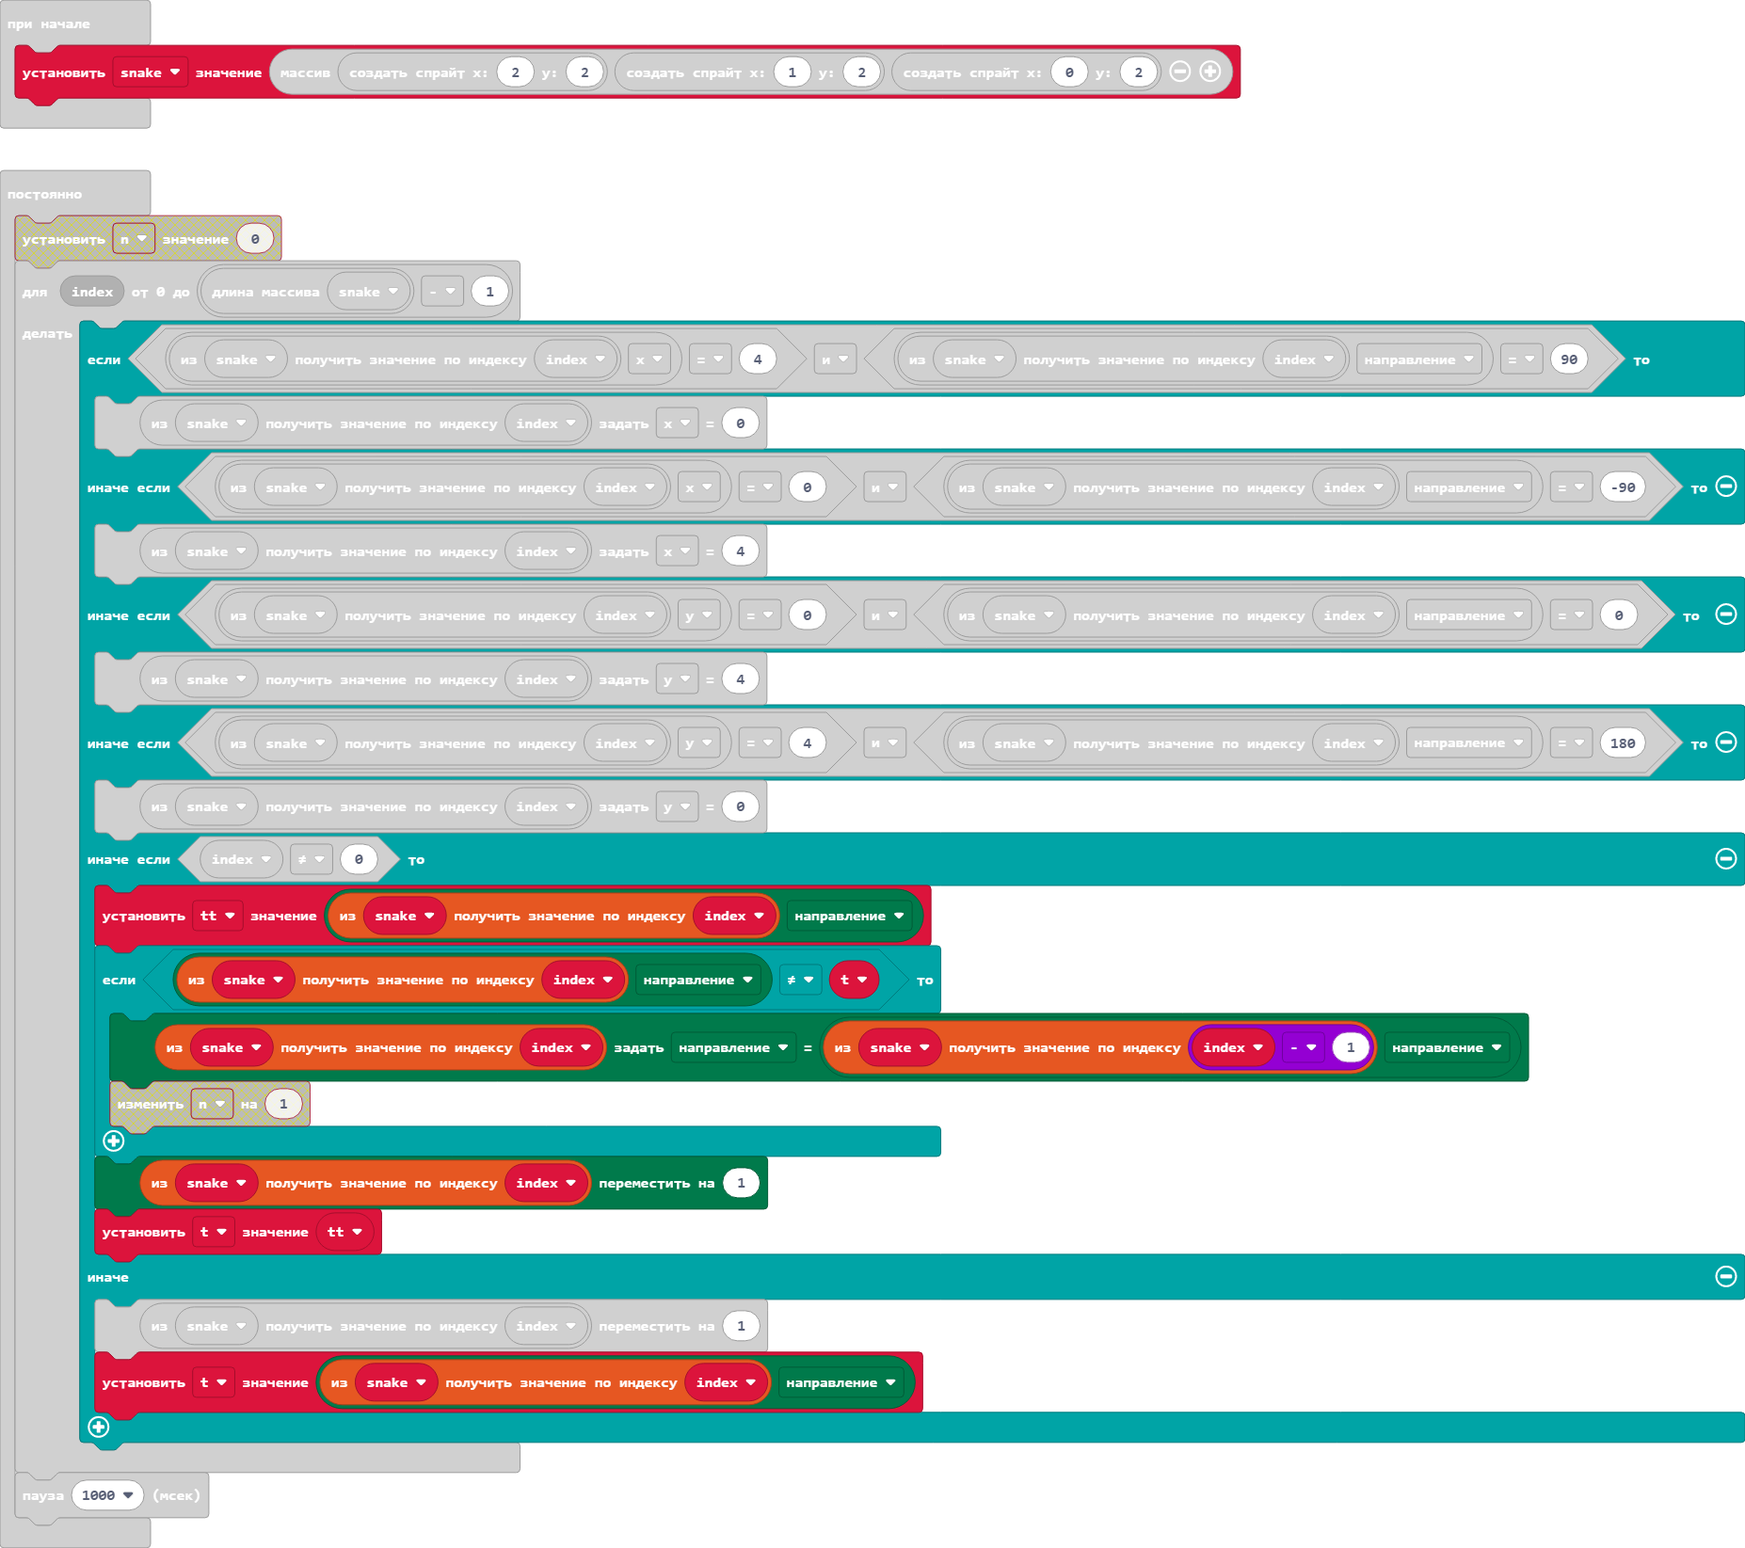
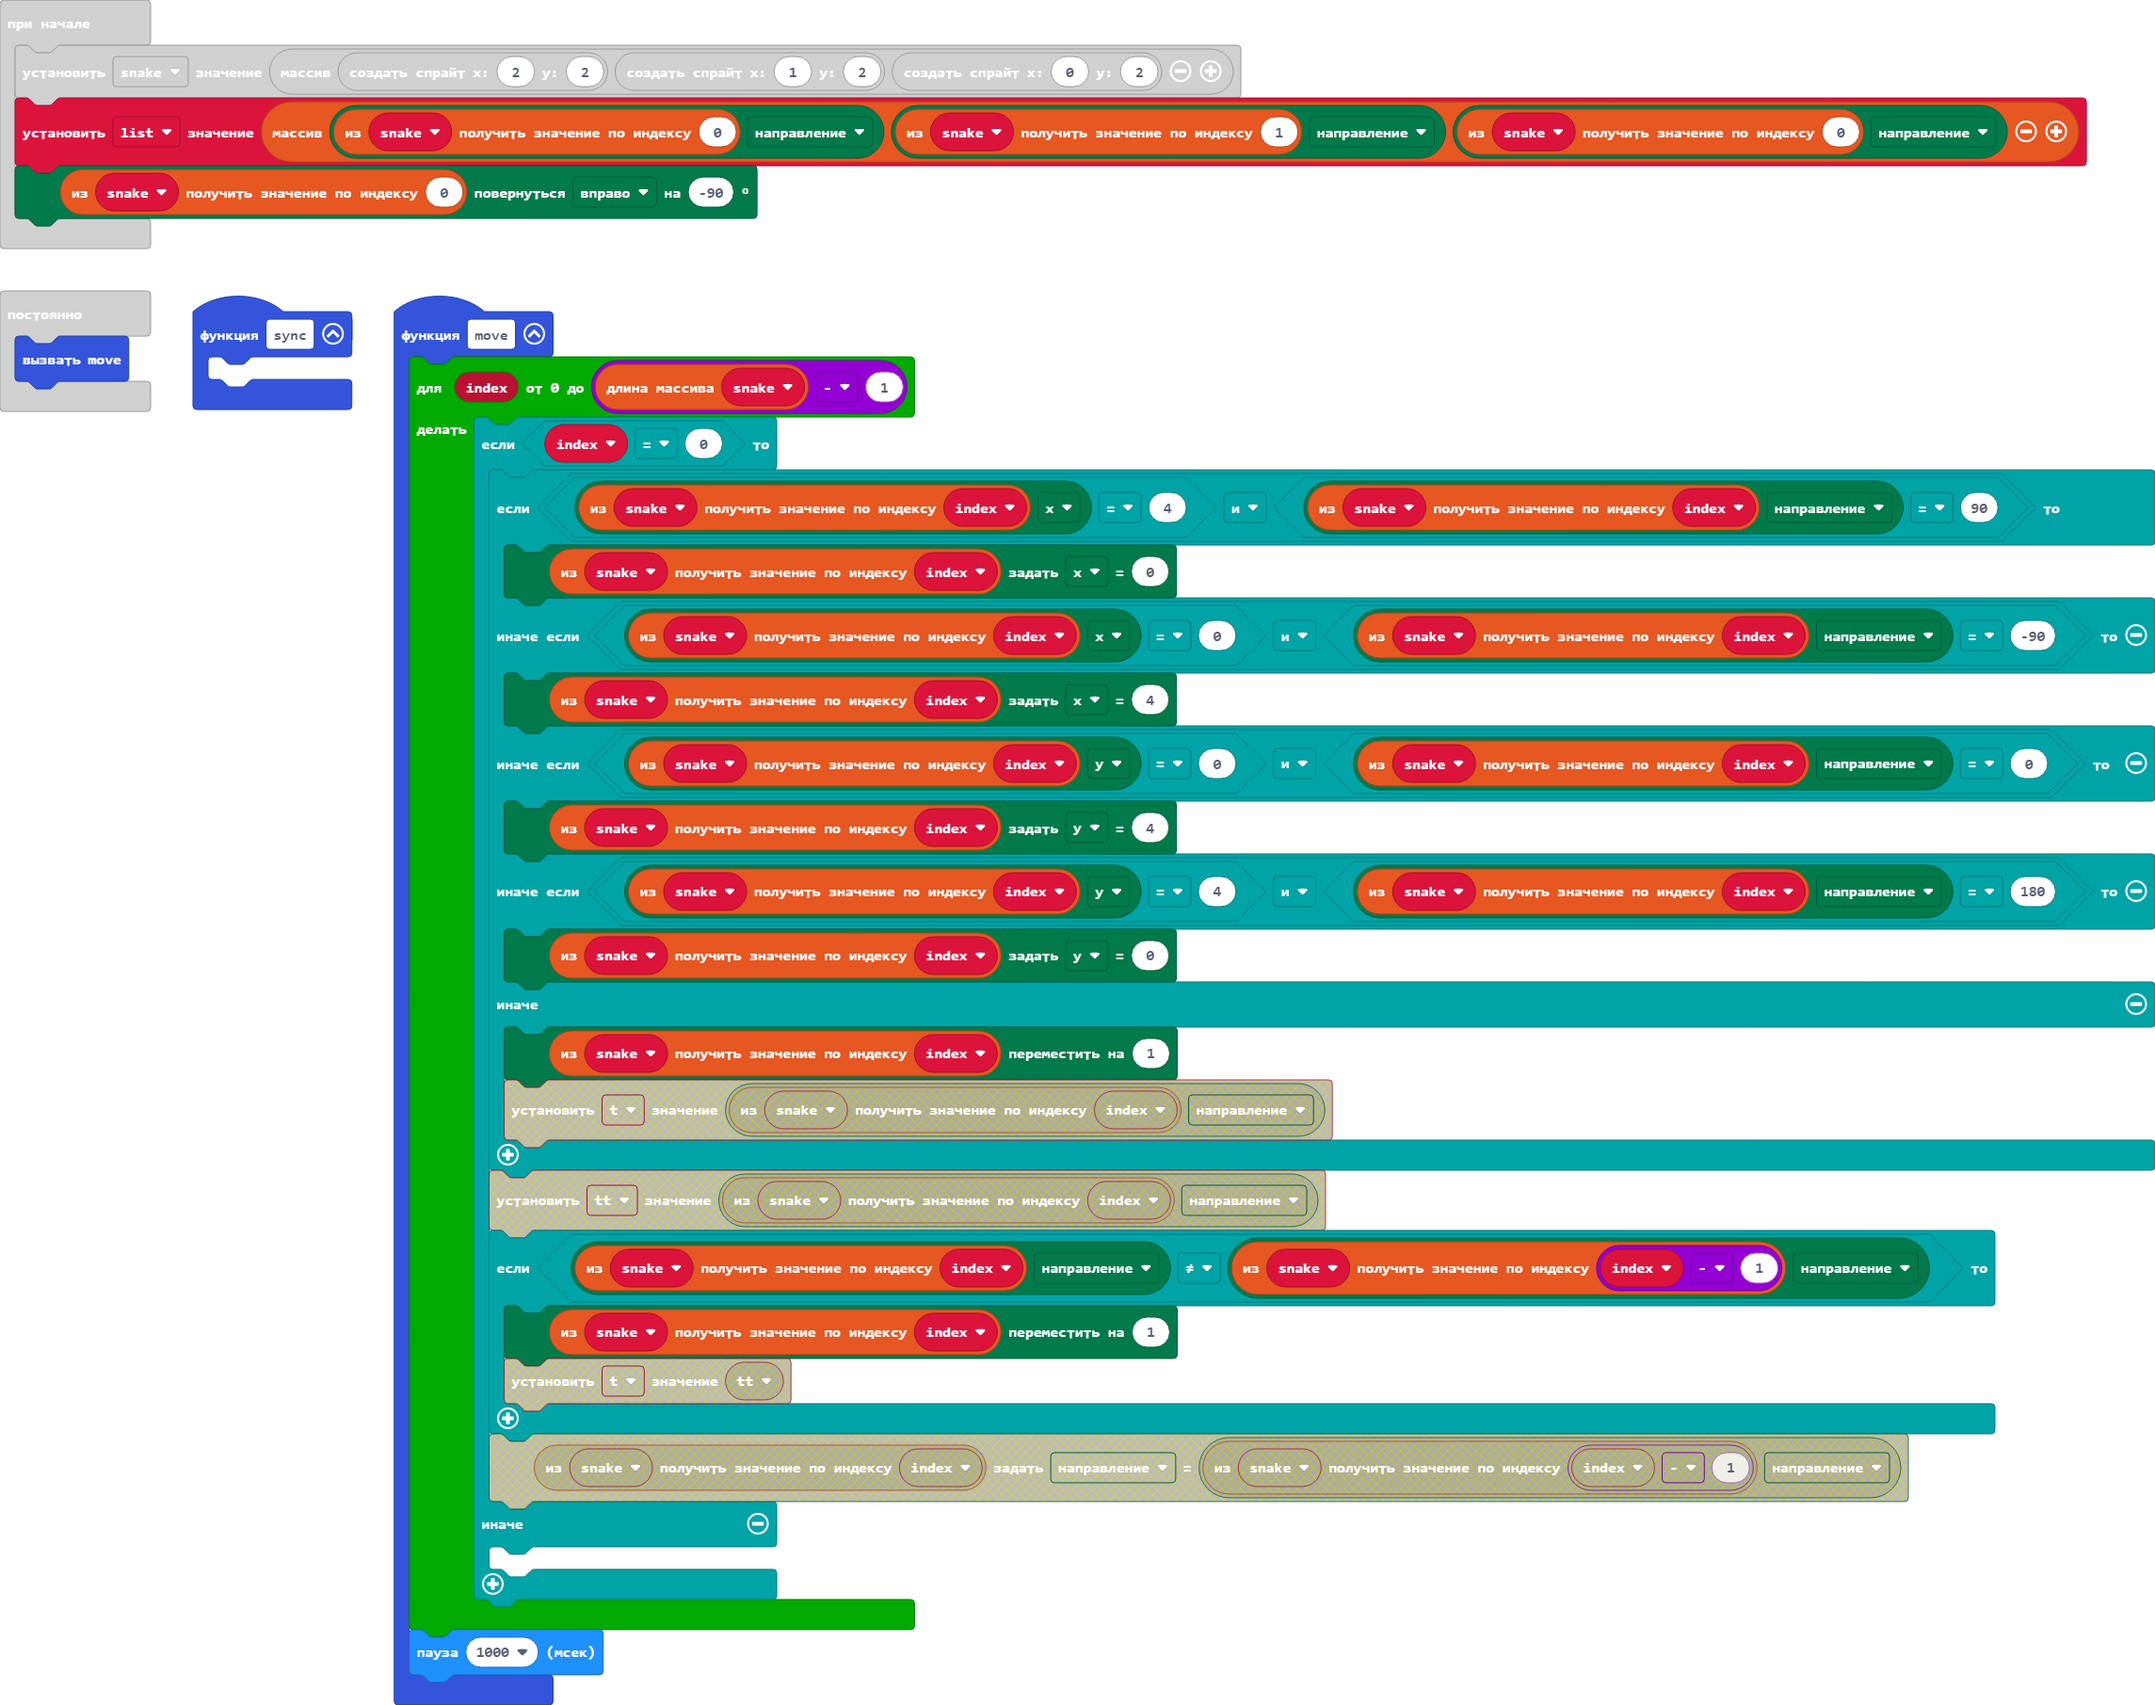
movi

diff --git a/main.ts b/main.ts
@@ -9,6 +9,9 @@ buttonClicks.onButtonDown(buttonClicks.AorB.B, function () {
         snake[0].turn(Direction.Left, 90)
     }
 })
+function sync () {
+	
+}
 buttonClicks.onButtonDown(buttonClicks.AorB.A, function () {
     if (snake[0].get(LedSpriteProperty.Direction) == 90) {
         snake[0].turn(Direction.Right, 90)
@@ -20,31 +23,32 @@ buttonClicks.onButtonDown(buttonClicks.AorB.A, function () {
         snake[0].turn(Direction.Left, 90)
     }
 })
-let t = 0
-let tt = 0
-let snake: game.LedSprite[] = []
-snake = [game.createSprite(2, 2), game.createSprite(1, 2), game.createSprite(0, 2)]
-basic.forever(function () {
+function move () {
     for (let index = 0; index <= snake.length - 1; index++) {
-        if (snake[index].get(LedSpriteProperty.X) == 4 && snake[index].get(LedSpriteProperty.Direction) == 90) {
-            snake[index].set(LedSpriteProperty.X, 0)
-        } else if (snake[index].get(LedSpriteProperty.X) == 0 && snake[index].get(LedSpriteProperty.Direction) == -90) {
-            snake[index].set(LedSpriteProperty.X, 4)
-        } else if (snake[index].get(LedSpriteProperty.Y) == 0 && snake[index].get(LedSpriteProperty.Direction) == 0) {
-            snake[index].set(LedSpriteProperty.Y, 4)
-        } else if (snake[index].get(LedSpriteProperty.Y) == 4 && snake[index].get(LedSpriteProperty.Direction) == 180) {
-            snake[index].set(LedSpriteProperty.Y, 0)
-        } else if (index != 0) {
-            tt = snake[index].get(LedSpriteProperty.Direction)
-            if (snake[index].get(LedSpriteProperty.Direction) != t) {
-                snake[index].set(LedSpriteProperty.Direction, snake[index - 1].get(LedSpriteProperty.Direction))
+        if (index == 0) {
+            if (snake[index].get(LedSpriteProperty.X) == 4 && snake[index].get(LedSpriteProperty.Direction) == 90) {
+                snake[index].set(LedSpriteProperty.X, 0)
+            } else if (snake[index].get(LedSpriteProperty.X) == 0 && snake[index].get(LedSpriteProperty.Direction) == -90) {
+                snake[index].set(LedSpriteProperty.X, 4)
+            } else if (snake[index].get(LedSpriteProperty.Y) == 0 && snake[index].get(LedSpriteProperty.Direction) == 0) {
+                snake[index].set(LedSpriteProperty.Y, 4)
+            } else if (snake[index].get(LedSpriteProperty.Y) == 4 && snake[index].get(LedSpriteProperty.Direction) == 180) {
+                snake[index].set(LedSpriteProperty.Y, 0)
+            } else {
+                snake[index].move(1)
             }
-            snake[index].move(1)
-            t = tt
         } else {
-            snake[index].move(1)
-            t = snake[index].get(LedSpriteProperty.Direction)
+            if (snake[index].get(LedSpriteProperty.Direction) != snake[index - 1].get(LedSpriteProperty.Direction)) {
+                snake[index].move(1)
+            }
         }
     }
     basic.pause(1000)
+}
+let snake: game.LedSprite[] = []
+snake = [game.createSprite(2, 2), game.createSprite(1, 2), game.createSprite(0, 2)]
+let list = [snake[0].get(LedSpriteProperty.Direction), snake[1].get(LedSpriteProperty.Direction), snake[0].get(LedSpriteProperty.Direction)]
+snake[0].turn(Direction.Right, -90)
+basic.forever(function () {
+    move()
 })
